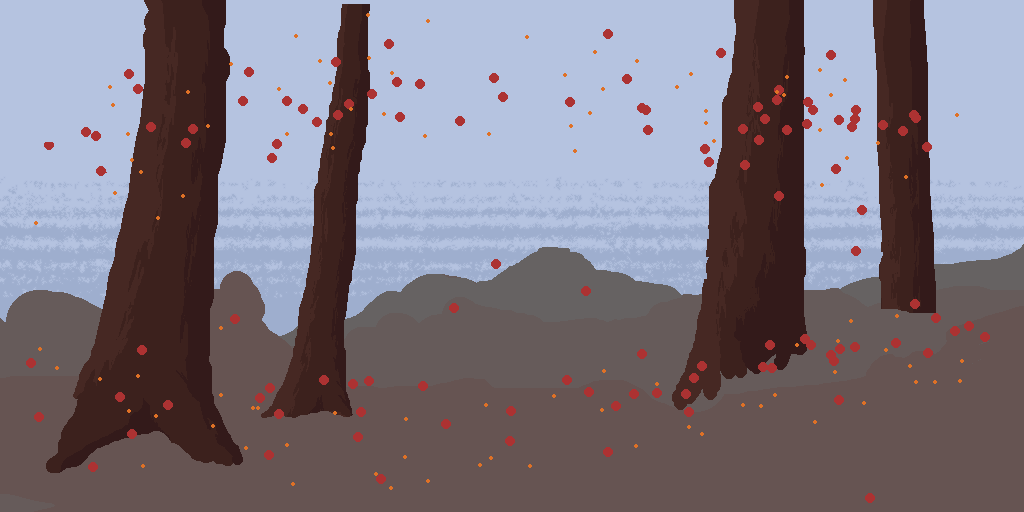
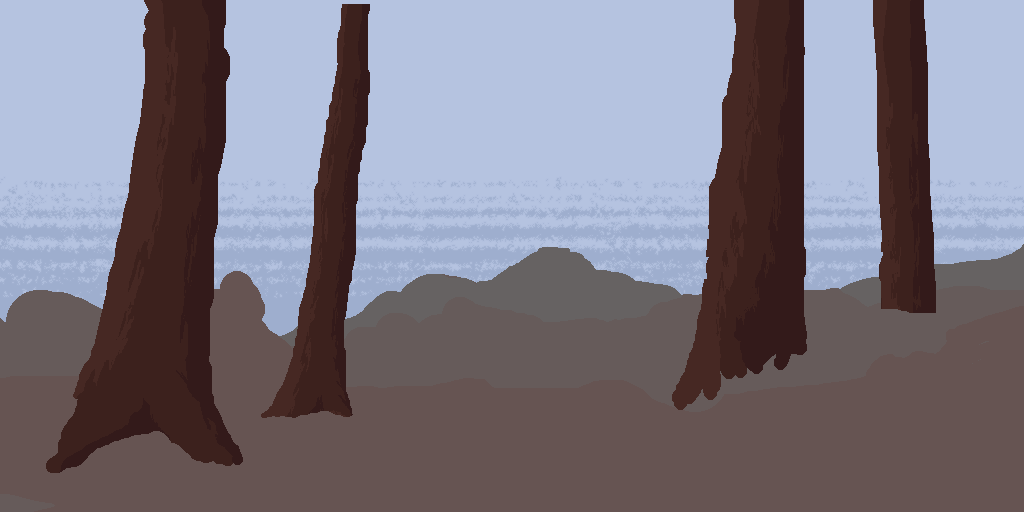
particles everywhere

diff --git a/text/TODO.md b/text/TODO.md
@@ -1,18 +1,31 @@
-1.2) lock camera in center during boss fight
-2) create some way to lock the bounds of the fighting arena for boss fights
+Necessary To Publish Demo:
+1) boss fight
+	1.1) lock camera in center during boss fight
+	1.2) create some way to lock the bounds of the fighting arena for boss fights
+	1.3) at least 3 different attack types
+	1.4) boss health bar (if no stagger)
+2) interactable character in the hut in room 3
+3) name the game
+4) make it so that mouse only appears in a menu screen
+5) revert back to autofull screen, no boundaries
+6) finish shading all the trees
+7) "the end" or option to respawn if dead
 
 
 enemies =========
-- create boss fight in russet_grove_4
 - make it so that if the sheep can't locate us or we are dead it does its own thing
+- -------------- Grove Guardian
+	- create boss fight in russet_grove_4
+	- enemy attack: the red orbs floating around the world open an eye and do damage of some sort (eg. passive damage, fly at player, pop, etc.)
+	- make improve grove guardian grass in idle animation
 
 player ==========
 - create some signifier when < 20% health left
-- create death scene when you die in mid-air or on spikes or something similarly less stable
+- fix death scene so that the melt doesn't hang in the air
+	- create death scene when you die in mid-air or on spikes or something similarly less stable
 
 levels ==========
 - fix bug where it crashes after 1) starting game and switching scenes 2) pausing and exitting to main menu 3) trying to start again
-- when boss fight starts, camera stablizes to the middle of the screen
 
 UI ==============
 - create a settings screen
